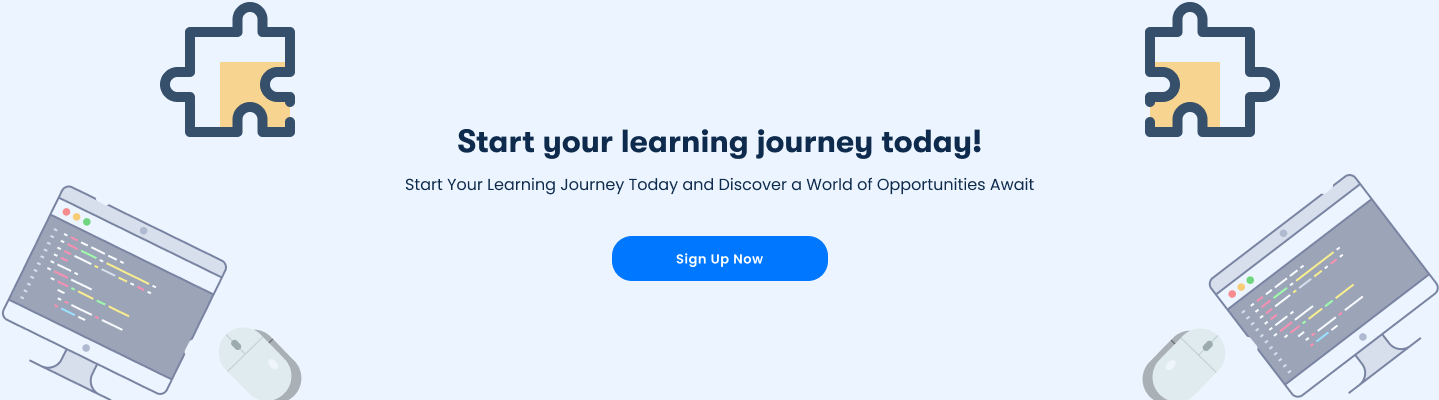
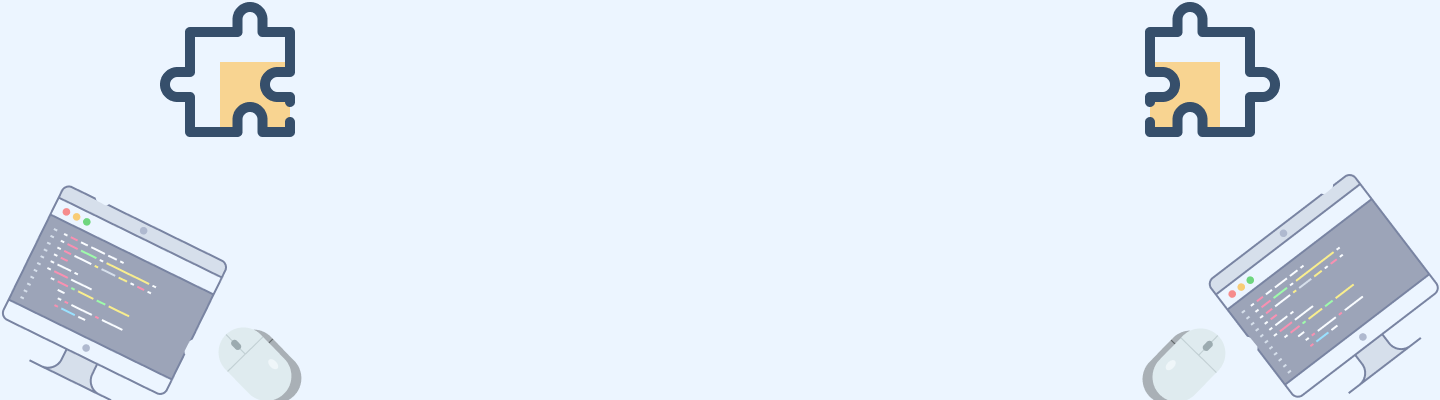
updated

diff --git a/src/components/Growth/Growth.tsx b/src/components/Growth/Growth.tsx
@@ -3,7 +3,7 @@ import { Link } from "react-router-dom"
 export const Growth = () => {
   return (
    <div className="flex flex-col md:flex-row justify-between py-10 md:px-12 md:py-20 px-5 xl:px-28 lg:py-20 md:max-lg:max-w-6xl lg:max-xl:max-w-7xl md:bg-[#F4F7FA] font-poppins">
-    <div className="flex max-sm:flex-col sm:justify-between sm:items-center sm:w-full">
+    <div className="flex max-sm:flex-col md:justify-between md:items-center sm:w-full">
       <div className="flex flex-col gap-4 lg:gap-6 text-head-black md:max-xl:w-3/5 xl:w-2/5 max-sm:mb-10">
          <h1 className=" font-bold text-2xl sm:text-[1.875rem] lg:text-[2.5rem] sm:leading-9 lg:leading-[2.875rem] max-w-[20.625rem] sm:max-w-[23.75rem] lg:max-w-[31rem] max-sm:capitalize">See our growth, progress, and <span className="text-hero-blue">evolution</span></h1>
          <h4 className="text-[0.8125rem] lg:text-base max-w-[23.125rem] lg:max-w-[28rem]">Founded in 2020, Leadwinn has trained 100+ students in 10+ countries, demonstrating a global commitment to top-notch coding education. Our mission is to shape the future of education in an evolving digital landscape.</h4>

diff --git a/src/components/Learning/Learning.tsx b/src/components/Learning/Learning.tsx
@@ -3,8 +3,8 @@ import { Link } from "react-router-dom"
 
 export const Learning = () => {
   return (
-    <div className="flex items-center justify-center font-poppins">
-      <div className="flex flex-col gap-1 sm:gap-2 items-center justify-center text-center text-head-black">
+    <div className="bg-learning-mobile sm:bg-learning bg-contain bg-no-repeat flex items-center justify-center h-[16.25rem] lg:h-[20rem] xl:h-[25rem] 2xl:h-[35rem] max-sm:-mb-32 sm:-mb-20 lg:-mb-10 font-poppins">
+      <div className="flex flex-col gap-1 sm:gap-2 items-center justify-center text-center text-head-black -mt-32 sm:max-md:-mt-16 md:-mt-6">
       <h1 className="font-bold text-sm sm:text-xl lg:text-[2rem] lg:leading-[2.75rem] lg:mb-3">Start your learning journey today!</h1>
       <h1 className="max-sm:max-w-[18.75rem] text-xs lg:text-base mb-2 sm:mb-5">Start Your Learning Journey and Discover a World of Opportunities Await</h1>
 
